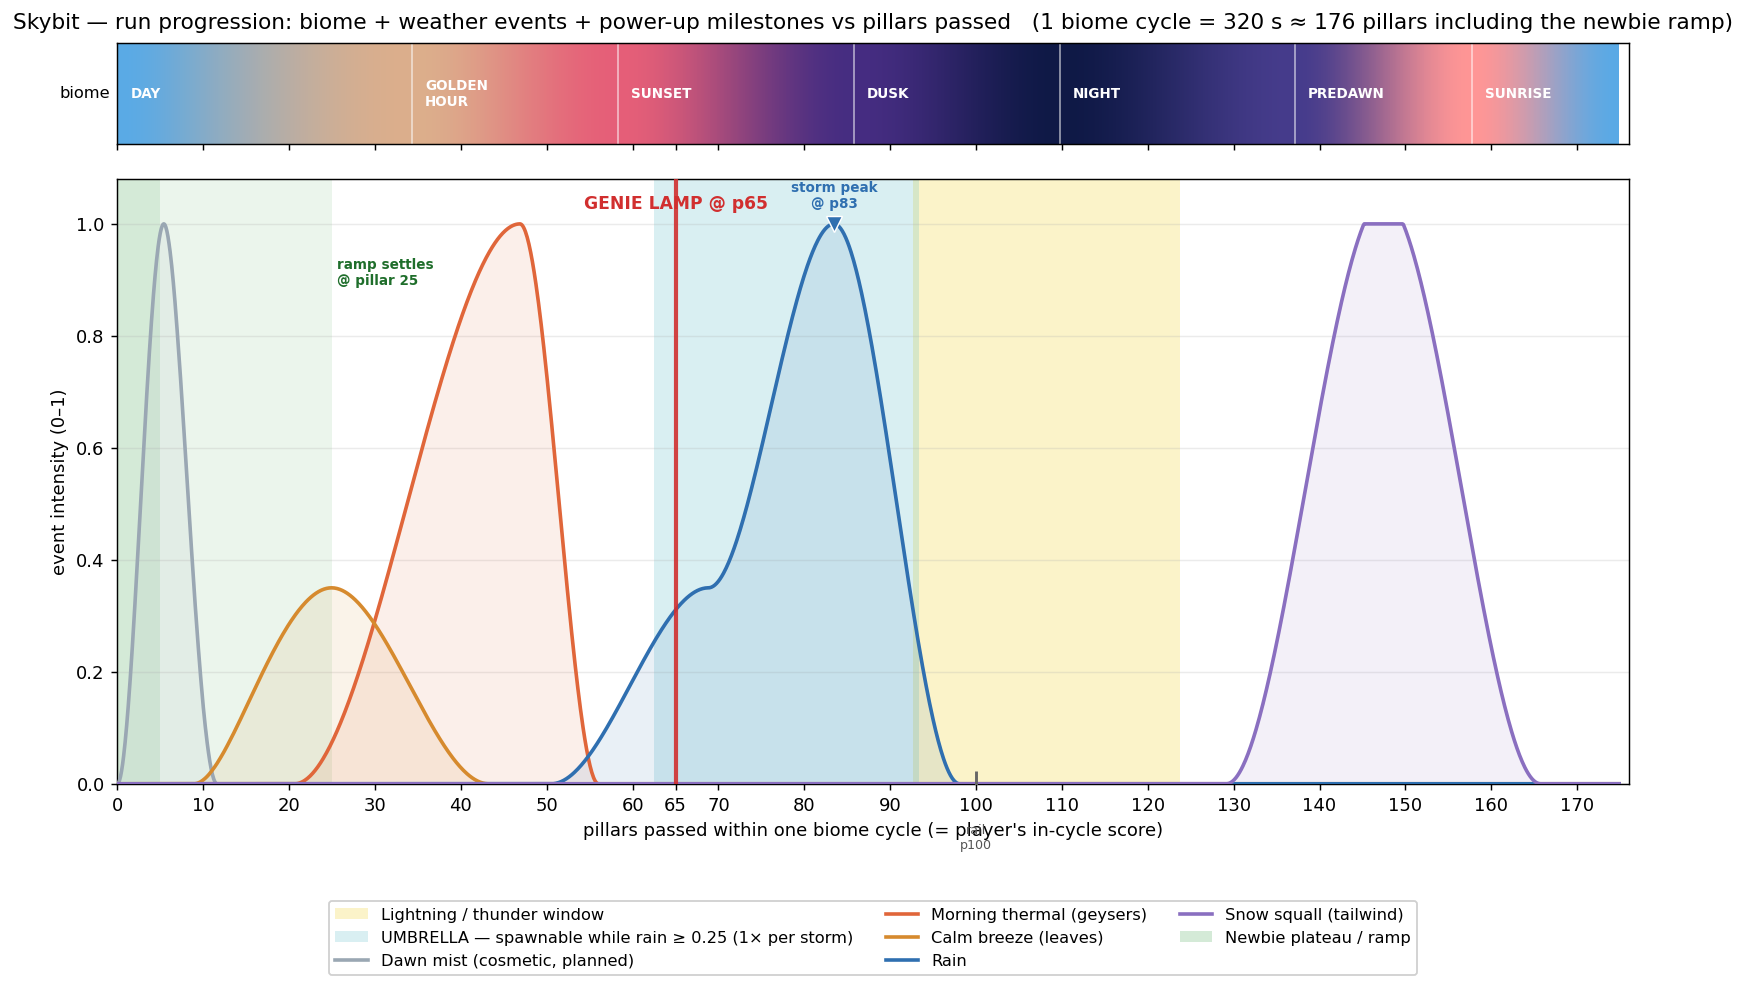
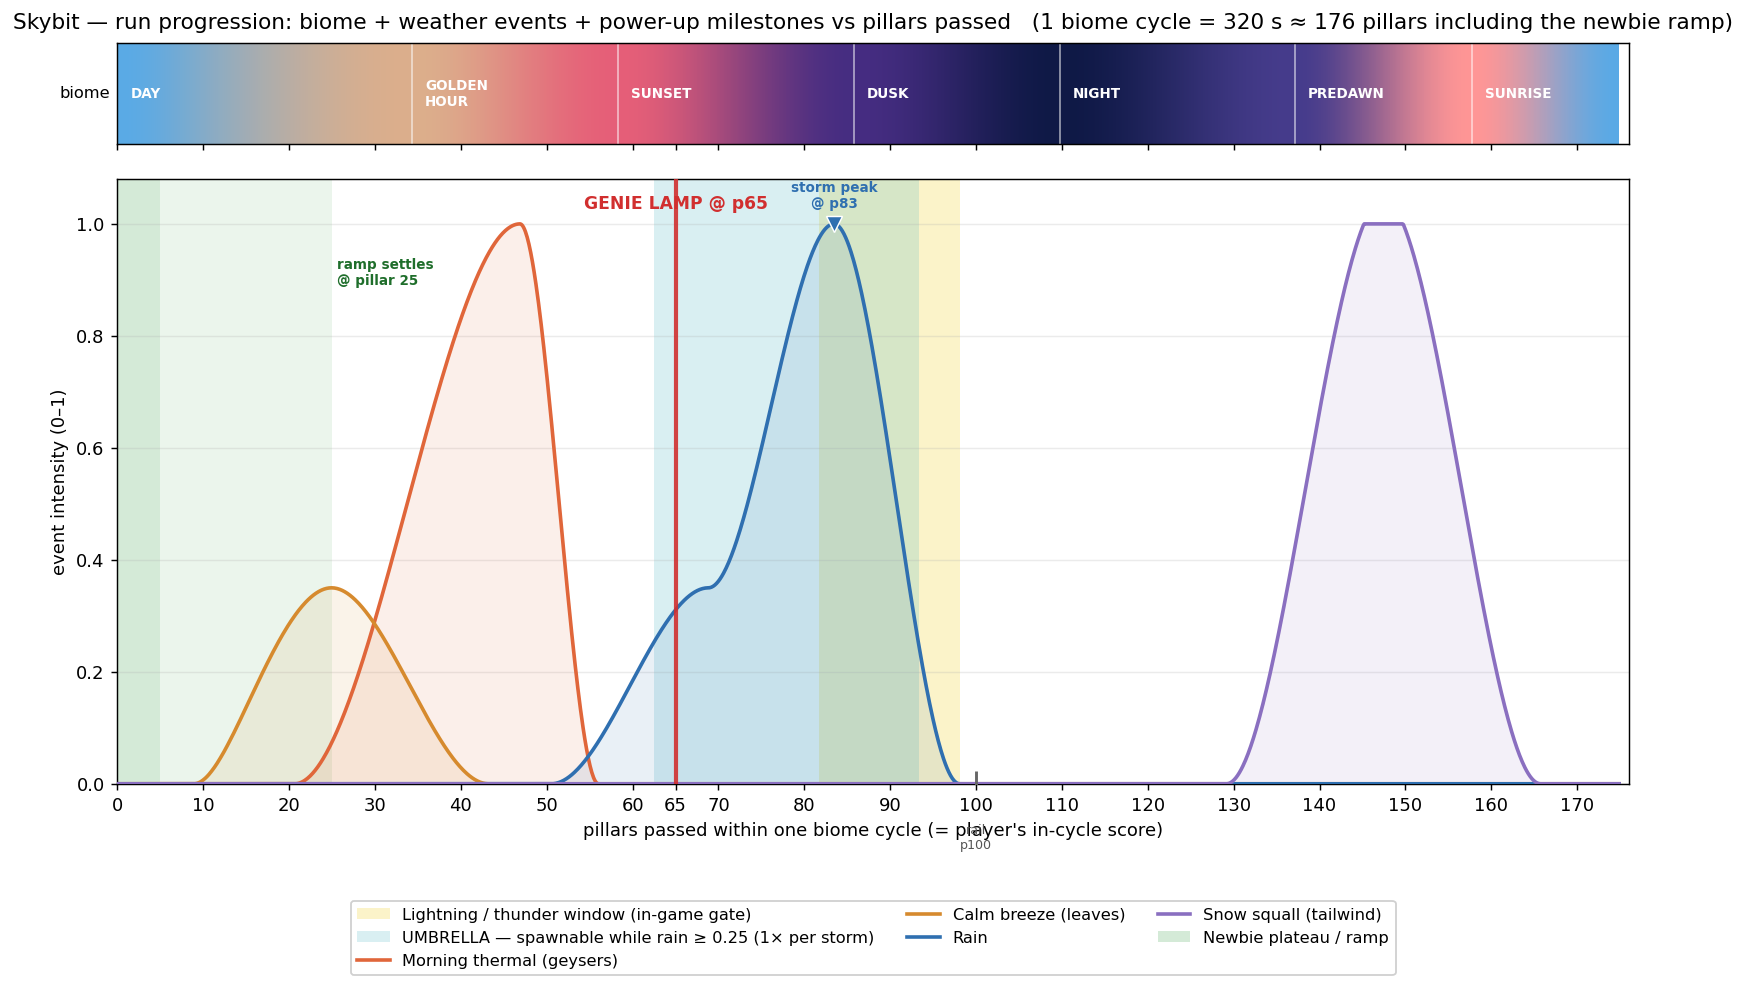
Run-progression chart: align lightning window + drop unused mist curve
Two corrections so the chart mirrors what actually fires in-game,
not what the plotter helpers suggest:

  * Lightning window. The legacy `weather.lightning_active(phase)`
    returns `0.55 <= phase <= 0.72` but is never called by live
    gameplay code -- the real lightning gate is inline in
    `Weather.update` (weather.py ~558): `storming = 0.49 <= phase
    <= 0.58`, overlapping the rain peak at 0.50. Plot the real
    window so the band sits on the rain crest where the in-game
    flashes actually fire.

  * Dawn mist (`_mist_intensity`). The reference plotter sketches
    this curve but no in-game system reads it (the docstring even
    flags it as "deferred cosmetic, no in-game implementation").
    Dropped from the chart so every curve shown corresponds to a
    real gameplay system.

Doc-only.

https://claude.ai/code/session_015eWdab4GNRiXFWxdLQ8CG2

Changed region(s): [[0.4639, 0.1822, 0.6804, 0.7895], [0.1856, 0.9109, 0.6495, 1.0], [0.6495, 0.9109, 0.8041, 0.9717]]

diff --git a/tools/plot_progression_chart.py b/tools/plot_progression_chart.py
@@ -43,6 +43,22 @@ UMBRELLA_RAIN_TH = config.UMBRELLA_SPAWN_RAIN
 # obviously the umbrella's window (and not just "another weather thing").
 UMBRELLA_BAND = "#54B9C4"
 
+# Lightning fires in-game from this inline gate in Weather.update
+# (weather.py ~558):  storming = 0.49 <= phase <= 0.58
+# This is NOT the same as the older weather.lightning_active() helper
+# (0.55..0.72) which the legacy plotters used — that helper isn't called
+# from any live gameplay code; the real in-game window overlaps the rain
+# peak at 0.50, so lightning happens DURING the rain, not after.
+LIGHTNING_PHASE_MIN = 0.49
+LIGHTNING_PHASE_MAX = 0.58
+
+
+def _lightning_active_real(phase: float) -> bool:
+    """The window that actually drives in-game flashes / thunder audio
+    (Weather.update inline check). Use this for the chart instead of
+    weather.lightning_active() so the timeline matches reality."""
+    return LIGHTNING_PHASE_MIN <= phase <= LIGHTNING_PHASE_MAX
+
 PHASE_LABELS = [
     (0.00000, "DAY"),
     (0.23125, "GOLDEN\nHOUR"),
@@ -58,13 +74,11 @@ def _hex(rgb):
     return "#%02x%02x%02x" % tuple(int(c) for c in rgb[:3])
 
 
-def _mist_intensity(phase: float) -> float:
-    """Mirrors the reference plotter — deferred cosmetic mist."""
-    return weather._bump(phase, 0.05, 0.05)
-
-
+# Only curves that are actually consumed by live gameplay code. The
+# `_mist_intensity` sketch from the reference plotter is dropped here
+# because no in-game system reads it — the chart is meant to mirror
+# what really happens in a run.
 CURVES = [
-    ("Dawn mist (cosmetic, planned)", _mist_intensity, "#9aa7b3"),
     ("Morning thermal (geysers)",     weather.thermal_intensity, "#e0663a"),
     ("Calm breeze (leaves)",          weather.calm_breeze,       "#d68a2e"),
     ("Rain",                          weather.rain_intensity,    "#2f6fb0"),
@@ -152,26 +166,29 @@ def main() -> None:
         fontsize=12, pad=8)
 
     # ── bottom panel: weather curves vs pillars ─────────────────────────
-    # Lightning windows (yellow shading).
+    # Lightning windows (yellow shading) — uses the REAL in-game gate
+    # (0.49..0.58) from Weather.update, not the stale lightning_active()
+    # helper. This overlaps the rain peak at 0.50, so the band correctly
+    # falls on top of the rain crest.
     in_window = False
     win_start = None
     legend_lightning = False
     for i, p in enumerate(phases):
-        active = weather.lightning_active(p)
+        active = _lightning_active_real(p)
         if active and not in_window:
             win_start = pillars[i]
             in_window = True
         elif not active and in_window:
             ax.axvspan(win_start, pillars[i], color="#f2d94e", alpha=0.30,
                        linewidth=0,
-                       label=("Lightning / thunder window"
+                       label=("Lightning / thunder window (in-game gate)"
                               if not legend_lightning else None))
             legend_lightning = True
             in_window = False
     if in_window:
         ax.axvspan(win_start, pillars[-1], color="#f2d94e", alpha=0.30,
                    linewidth=0,
-                   label=("Lightning / thunder window"
+                   label=("Lightning / thunder window (in-game gate)"
                           if not legend_lightning else None))
 
     # UMBRELLA spawn band — every pillar range where rain ≥ threshold is
